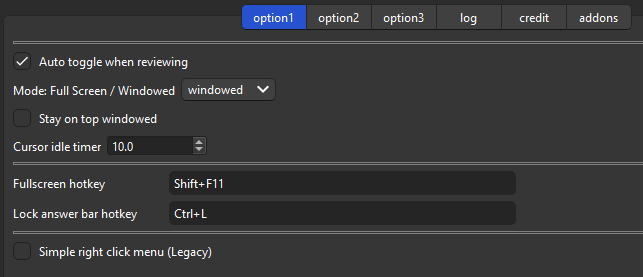
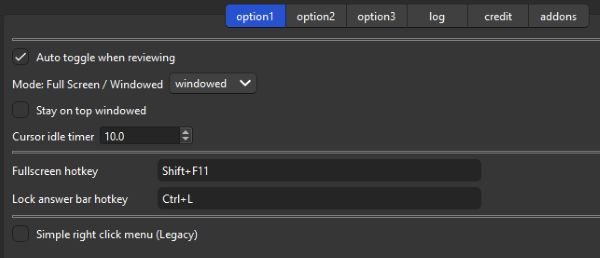
update

diff --git a/src/no-distractions-full-screen.md b/src/no-distractions-full-screen.md
@@ -111,10 +111,9 @@ You can customize other options in detail, click the "Restore Defaults" button a
 Combining this with <a href="https://ankiweb.net/shared/info/1923741581" target="_blank">Zoom for Anki add-on</a> helps display the text on the cards in a larger size.
 
 
-<!-- ウィンドウモード, Zoom for Anki, Always On Topを使うとAnkiをできるだけ小さくした状態で表示できます., -->
+By using the optional Window Mode, Zoom for Anki, and Always On Top, you can display Anki as small as possible, like this:
 
-
-<!-- ![alt text](images/nd-full-screen/04.png) -->
+![alt text](images/nd-full-screen/04.png)
 
 
 ## Related Add-ons (for GUI)